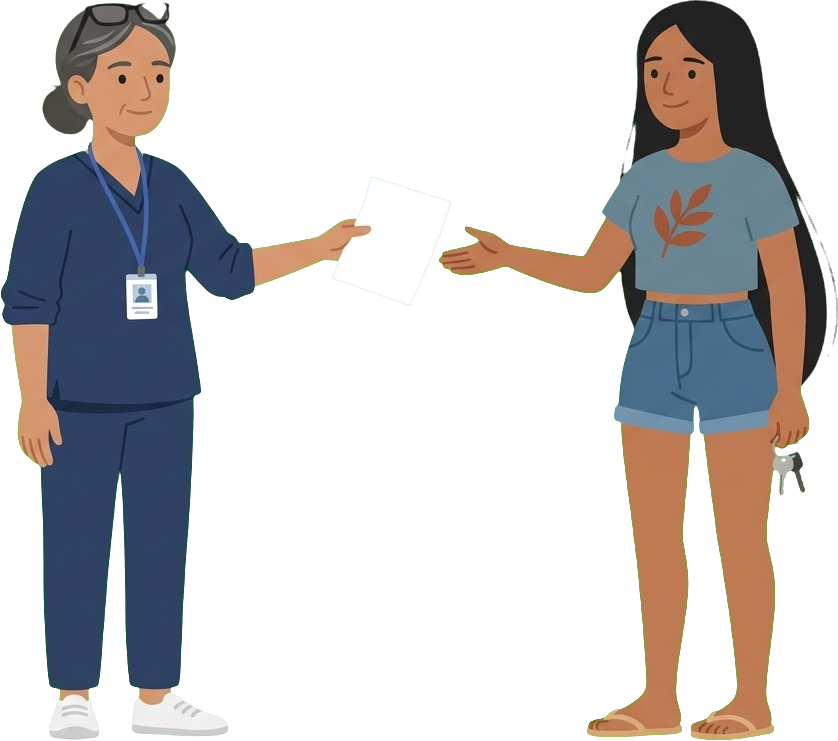
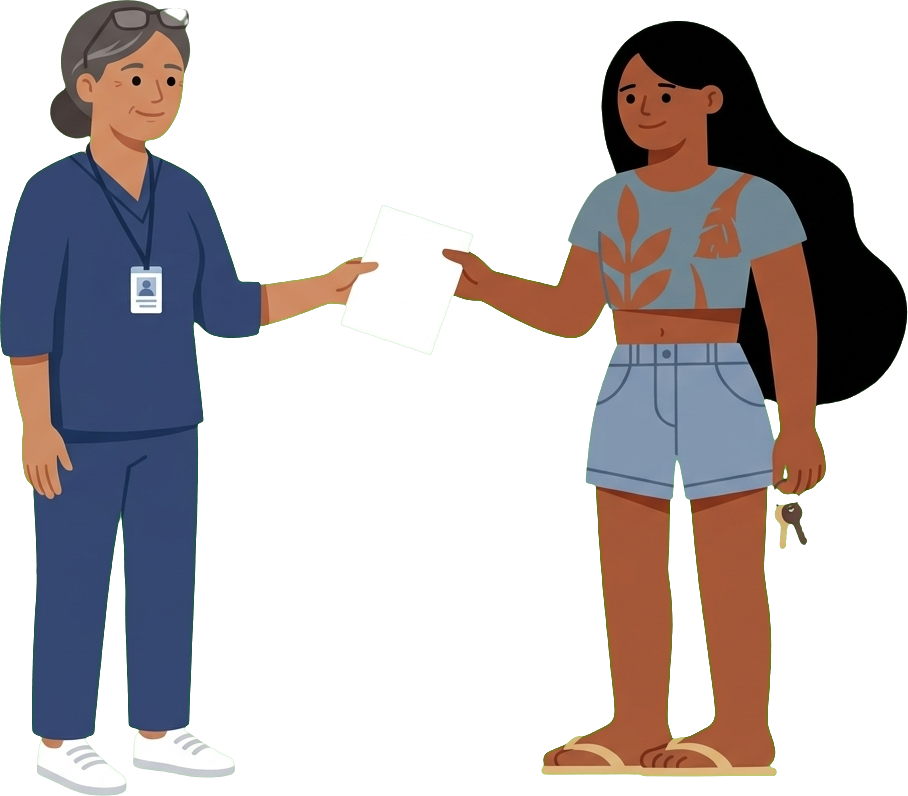
fix(act3): Reyes always faces Callie, Callie and Tay turn back at 'One more thing', handover two-shot regenerated from the model sheet

diff --git a/js/act3-screen.js b/js/act3-screen.js
@@ -331,7 +331,7 @@ export class Act3Screen {
     // ---- Beat 3F — The recheck --------------------------------------------
     this.recheckSteps = [
       { type: 'stage', text: 'Tay is standing, tail going, obviously herself. Callie picks up her keys.', sceneCue: 'Tay is standing, tail going, obviously herself. Callie picks up her keys.', cast: { callie: 'leaving', tay: 'leading', reyes: 'aside' } },
-      { speaker: 'reyes', business: 'not moving out of the doorway', text: "One more thing.", cast: { callie: 'turned' } },
+      { speaker: 'reyes', business: 'not moving out of the doorway', text: "One more thing.", cast: { callie: 'turned', tay: 'turned' } },
       { speaker: 'callie', text: "She's fine, though. You said she's fine." },
       { speaker: 'reyes', business: 'chart back out', text: "She is, today. Her bloodwork's normal — that's good, and it's not the whole story. Kidneys and clotting can go sideways 12–48 hours after something like this. It doesn't show up while you're standing here." },
       {
@@ -686,7 +686,7 @@ export class Act3Screen {
           'relief': 'Callie-Clinic-Relief.png',
           'floor': 'Callie-Clinic-FloorLaughing.png',
           'leaving': 'Callie-Clinic-Leaving.png',
-          'turned': 'Callie-Clinic-TurnedBack.png',
+          'turned': 'Callie-Clinic-Leaving.png',   // same still, mirrored in CSS: she has turned to face Reyes
           'handover': 'Callie-Reyes-Handover.png'
         },
         'reyes': {
@@ -699,7 +699,8 @@ export class Act3Screen {
         'tay': {
           'happy': 'Tay-StandingStage2-Warm.png',
           'sniffing': 'Tay-SniffingGround.png',
-          'leading': 'Tay-StandingSideProfile.png'
+          'leading': 'Tay-StandingSideProfile.png',
+          'turned': 'Tay-StandingStage1-Alert.png'
         }
       };
       
@@ -722,7 +723,8 @@ export class Act3Screen {
         tay: {
           happy: 'Tay, tail up, tongue out, obviously herself',
           sniffing: 'Tay nosing around the treatment room floor',
-          leading: 'Tay pulling on the leash, ready to go'
+          leading: 'Tay pulling on the leash, ready to go',
+          turned: 'Tay stopped at the door, looking back at Dr. Reyes'
         }
       };
 

diff --git a/css/act3-screen.css b/css/act3-screen.css
@@ -95,6 +95,8 @@
 .act3-cast-callie.is-state-relief { height: 50%; }
 .act3-cast-callie.is-state-waiting { height: 31%; left: 3%; bottom: 17%; }
 .act3-cast-callie.is-state-leaving, .act3-cast-callie.is-state-turned { right: 20%; left: auto; height: 50%; }
+/* "One more thing." — she has turned around to face Reyes. */
+.act3-cast-callie.is-state-turned { transform: scaleX(-1); }
 .act3-cast-callie.is-state-handover { right: 4%; left: auto; height: 52%; } /* her own chair, clear of the one against the wall */
 .act3-cast-callie.is-state-floor { height: 34%; }
 
@@ -106,20 +108,25 @@
   transform: scaleX(-1);
 }
 .act3-cast-tay.is-state-leading { right: 6%; left: auto; transform: none; }
+.act3-cast-tay.is-state-turned { right: 6%; left: auto; }
 
 .act3-cast-reyes {
   right: 14%;
   bottom: 4.4%;
   height: 52%;
+  /* Reyes's art faces left. Whenever she stands to Callie's LEFT she is flipped so she is
+     still facing the person she is talking to. */
+  --act3-reyes-flip: 1;
+  transform: scaleX(var(--act3-reyes-flip));
 }
-.act3-cast-reyes.is-state-aside { right: 40%; }
+.act3-cast-reyes.is-state-aside { right: 40%; --act3-reyes-flip: -1; }
 .act3-cast-reyes.is-active {
   animation: act3ReyesSlide 0.35s var(--ease-out-expo) forwards;
 }
 
 @keyframes act3ReyesSlide {
-  from { transform: translateX(20px); }
-  to { transform: translateX(0); }
+  from { transform: translateX(20px) scaleX(var(--act3-reyes-flip, 1)); }
+  to { transform: translateX(0) scaleX(var(--act3-reyes-flip, 1)); }
 }
 
 /* ==========================================================
